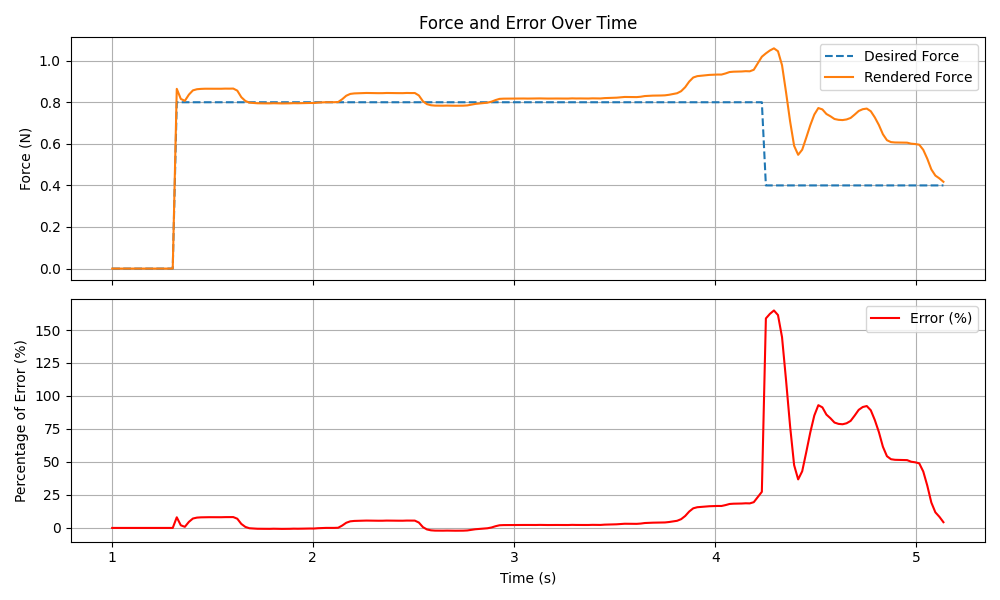
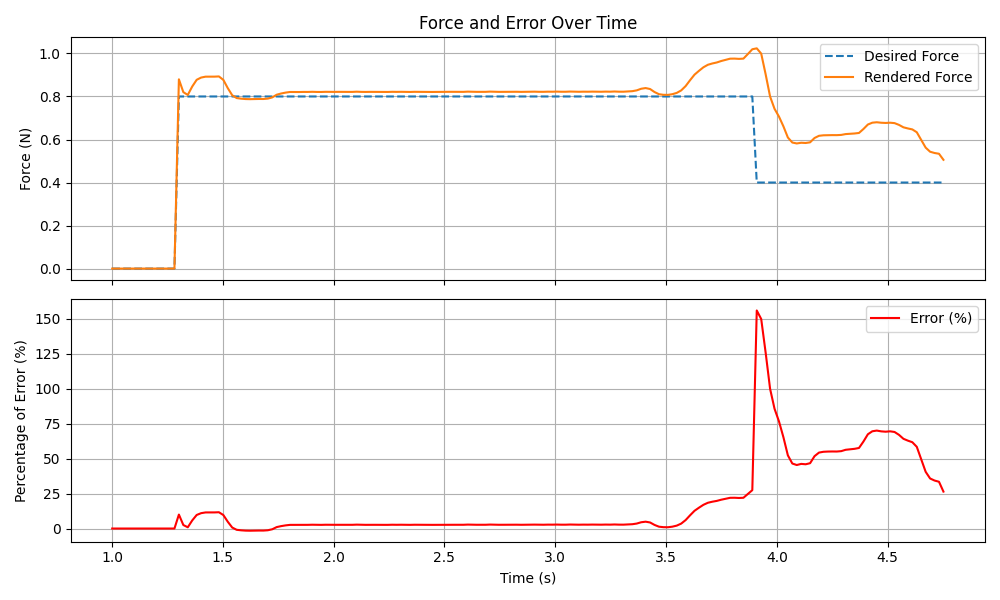
update

diff --git a/friction_render.py b/friction_render.py
@@ -44,7 +44,7 @@ initTime = 1.0  # seconds
 Kp, Ki, Kd = 0.8, 0, 0.05
 alpha = 0.7  # smoothing factor for low-pass filter
 pot_fluc = 0.012
-high_pass_alpha = 0.8
+high_pass_alpha = 0.9
 
 try:
     # while True:
@@ -148,7 +148,7 @@ try:
             previous_error = error
 
             positionChange = high_pass_alpha * (positionChange + targetPosition - lastTargetPosition)
-            pid_scale_factor = 1 + np.tanh(abs(positionChange)) if abs(positionChange) > 0.2 else 1
+            pid_scale_factor = 1 + np.tanh(abs(positionChange) * 2) if abs(positionChange) > 0.2 else 1
 
             error_percent = 100 * (detectedForce - frictionForce) / frictionForce if frictionForce > 0 else 0
 
